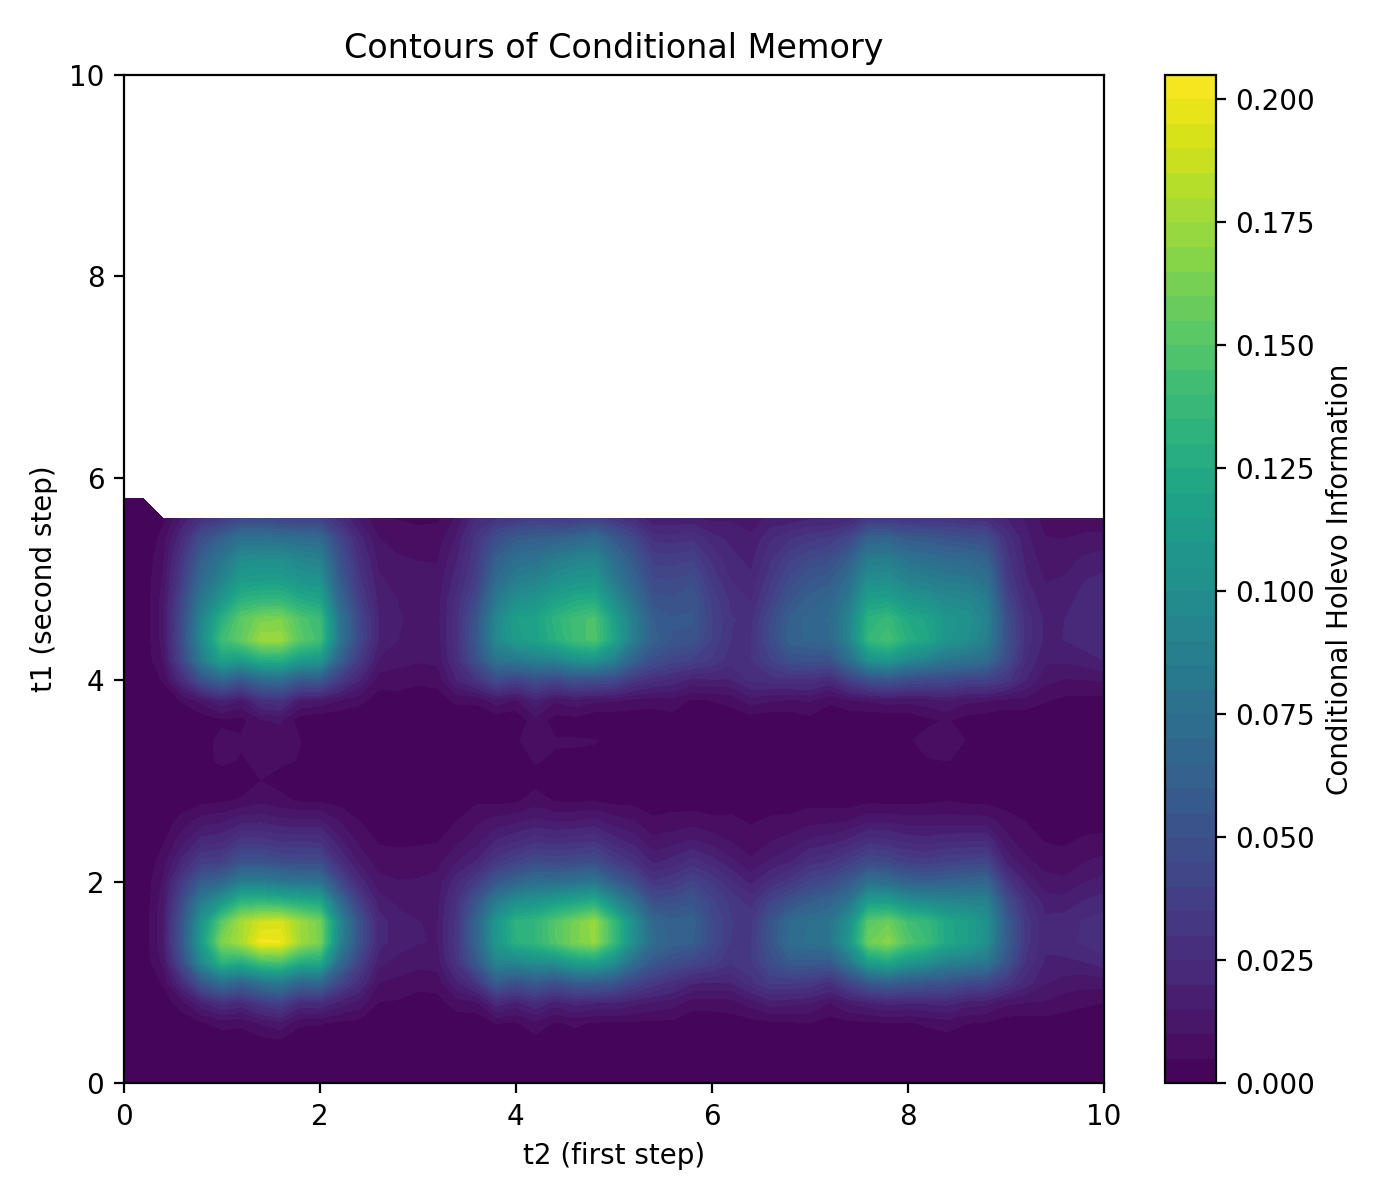
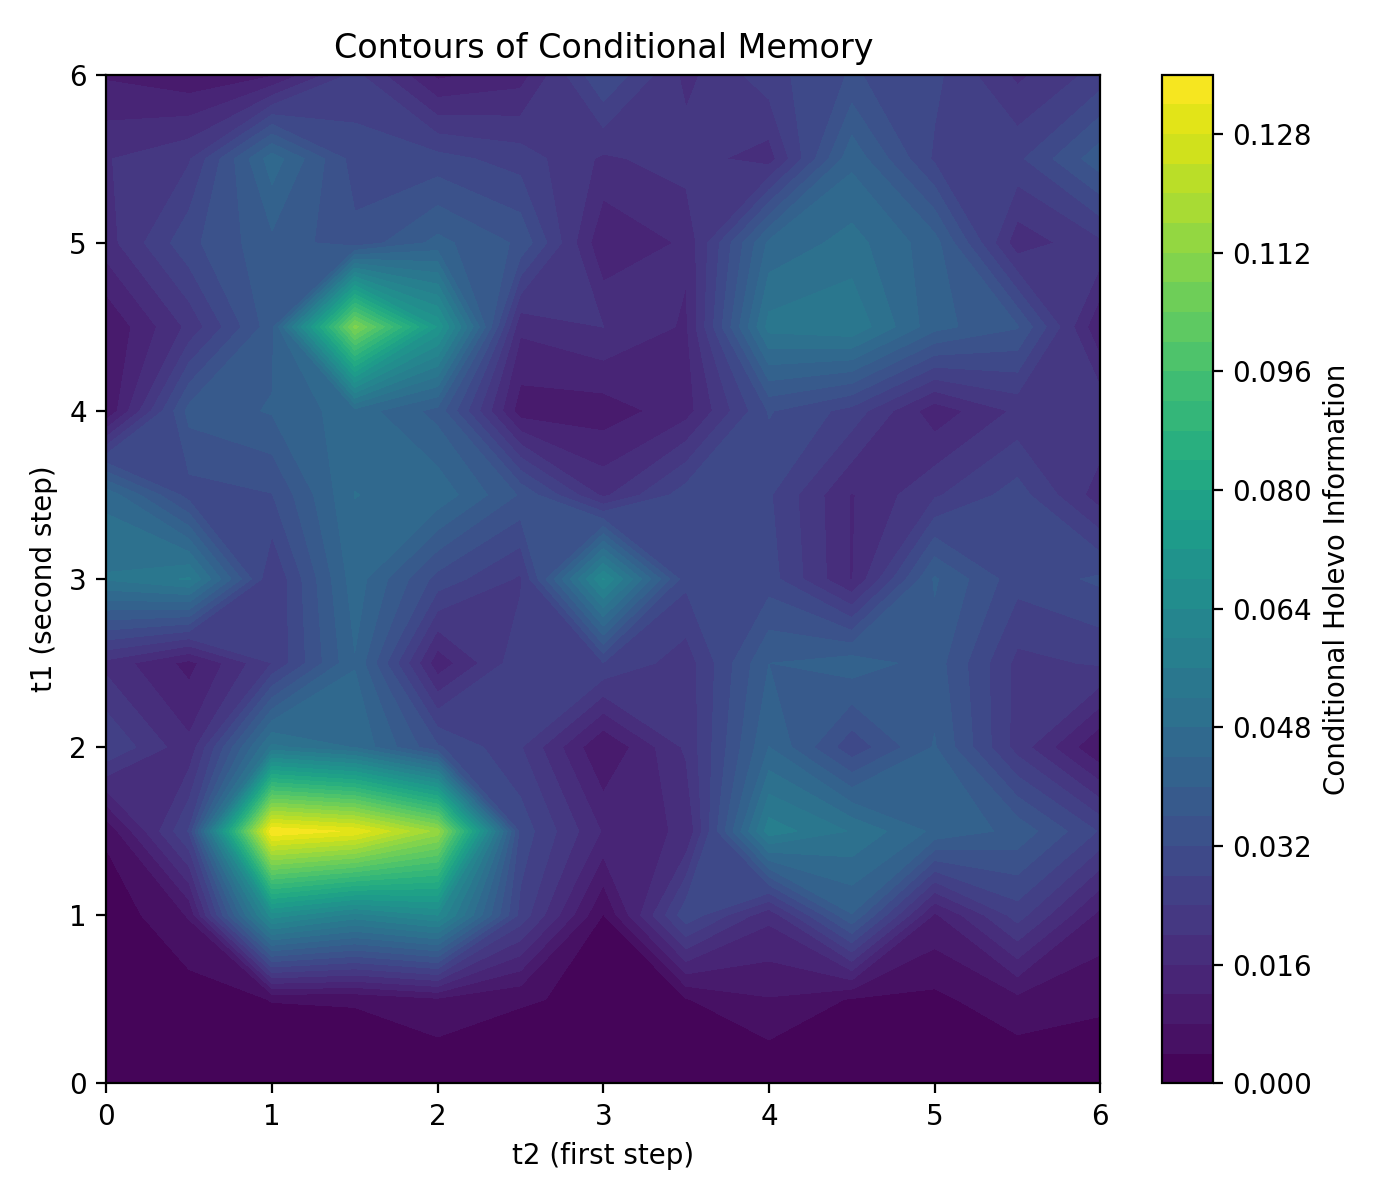
data upload

diff --git a/experiments/holevo_heatmap.py b/experiments/holevo_heatmap.py
@@ -8,6 +8,7 @@ import matplotlib.pyplot as plt
 import numpy as np
 
 from mqt.yaqs.characterization.tomography.tomography import run
+from mqt.yaqs.core.data_structures.noise_model import NoiseModel
 from mqt.yaqs.core.data_structures.networks import MPO
 from mqt.yaqs.core.data_structures.simulation_parameters import AnalogSimParams
 
@@ -23,17 +24,20 @@ def main() -> None:
     # ----- simulation params -----
     # To get exact results matching Mathematica, we use TJM with max_bond_dim=4
     # which is exact for L=2.
-    dt = 0.1
+    dt = 0.5
     ntraj = 10
-    sim_params = AnalogSimParams(dt=dt, num_traj=ntraj, max_bond_dim=4, order=2, get_state=True, solver="MCWF")
-
+    sim_params = AnalogSimParams(dt=dt, num_traj=ntraj, max_bond_dim=4, order=2, get_state=True, solver="MCWF", show_progress=False)
+    gamma = 0.1
+    noise_model = NoiseModel([
+        {"name": name, "sites": [i], "strength": gamma} for i in range(num_sites) for name in ["lowering"]
+    ])
     # ----- scan settings -----
-    T1_max = 10.0
-    T2_max = 10.0
+    T1_max = 6.0
+    T2_max = 6.0
     
     # We use step=0.2 for a 51x51 resolution. Change to 0.1 for 101x101 (exact match to Mathematica notebook, but slower).
-    step1 = 0.2
-    step2 = 0.2
+    step1 = 0.5
+    step2 = 0.5
 
     t1_grid = np.arange(0.0, T1_max + 1e-12, step1)
     t2_grid = np.arange(0.0, T2_max + 1e-12, step2)
@@ -74,9 +78,6 @@ def main() -> None:
             t2 = t2_grid[j]
             if done[i, j]:
                 continue
-            else:
-                chi = 0
-                continue
 
             # As per the Mathematica notebook, t2 is the first evolution duration (t)
             # and t1 is the second evolution duration (tau).
@@ -89,6 +90,7 @@ def main() -> None:
                 sim_params=sim_params,
                 timesteps=timesteps,
                 num_trajectories=ntraj,
+                noise_model=noise_model,
                 measurement_bases=["Z"],
             )
 
